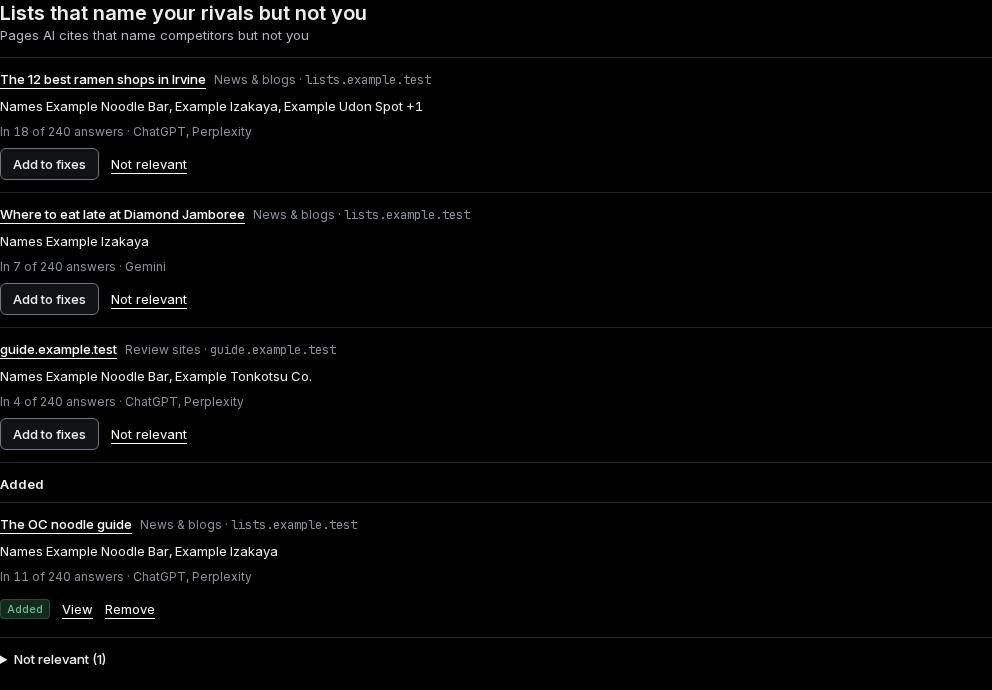
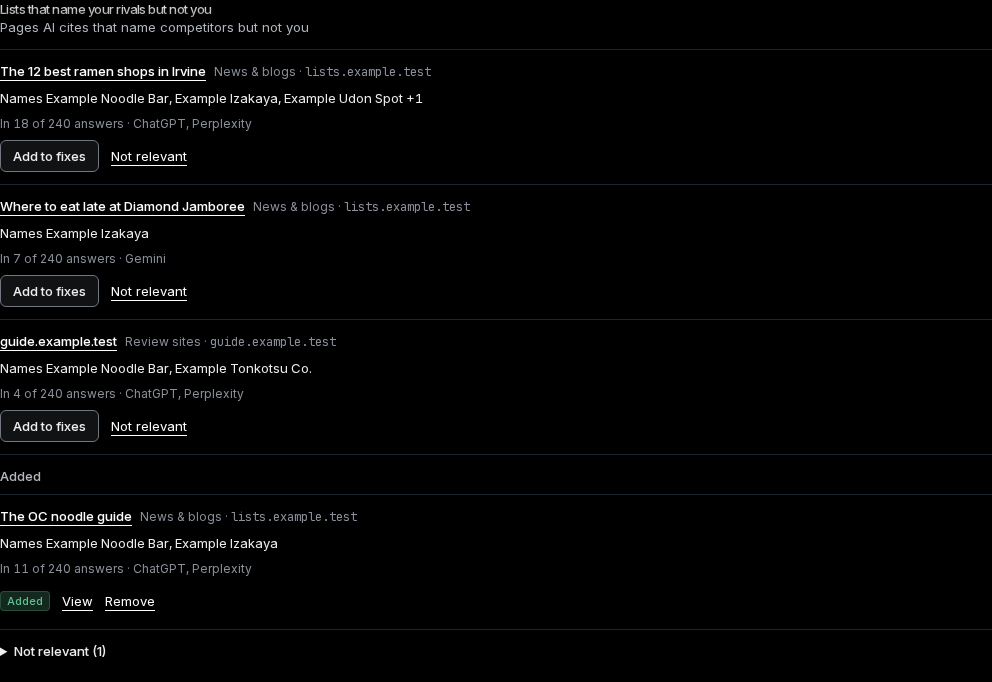
fix(mentions): http(s)-only links, new-tab note, the F1 section title (review S1)
A cited URL becomes a link only with an http: or https: protocol; anything
else is plain text with the domain. New-tab links carry a visually hidden
"(opens in a new tab)". The title uses the F1 section scale.

Changed region(s): [[0.0, 0.0, 0.4688, 0.4619], [0.0, 0.4927, 0.375, 0.9545]]

diff --git a/src/components/mentions/MentionsSection.tsx b/src/components/mentions/MentionsSection.tsx
@@ -14,10 +14,23 @@ const text = "text-ui text-link underline underline-offset-4";
 const action =
   "inline-flex min-h-11 items-center text-ui text-link underline underline-offset-4 md:min-h-8 focus-visible:outline-2 focus-visible:outline-offset-2 focus-visible:outline-jellyDeep";
 
+// #142 S1: a cited URL is a link only with an http: or https: protocol. Anything else (javascript:, data:,
+// a malformed URL) is plain text with the domain.
+export function safeHref(url: string): string | null {
+  try {
+    const { protocol } = new URL(url);
+    return protocol === "http:" || protocol === "https:" ? url : null;
+  } catch {
+    return null;
+  }
+}
+
 function PageLink({ t }: { t: MentionTarget }) {
+  const href = safeHref(t.url);
+  if (!href) return <span className="font-medium text-ui">{t.domain}</span>;
   return (
-    <a href={t.url} target="_blank" rel="noopener noreferrer" className={`font-medium ${text}`}>
-      {t.title ?? t.domain}
+    <a href={href} target="_blank" rel="noopener noreferrer" className={`font-medium ${text}`}>
+      {t.title ?? t.domain} <span className="sr-only">{c.newTab}</span>
     </a>
   );
 }
@@ -120,7 +133,7 @@ export function MentionsSection({
   return (
     <section aria-labelledby={heading} className="flex flex-col gap-3">
       <div>
-        <h2 id={heading} className="font-display text-h3 font-semibold">
+        <h2 id={heading} className="heading-gradient font-display text-section font-medium">
           {c.title}
         </h2>
         <p className="text-ui text-text2">{c.sub}</p>
@@ -138,7 +151,7 @@ export function MentionsSection({
           )}
           {added.length > 0 && (
             <section aria-label={c.added} className="flex flex-col gap-2">
-              <h3 className="text-ui font-semibold">{c.added}</h3>
+              <h3 className="text-ui font-medium text-text2">{c.added}</h3>
               <ul aria-label={c.added} className={list}>
                 {added.map(row)}
               </ul>

diff --git a/src/components/mentions/copy.ts b/src/components/mentions/copy.ts
@@ -21,4 +21,6 @@ export const mentionsCopy = {
   emptyNone: "None in your last run. We check again on every run.",
   failed: "We couldn't save that. Try again.",
   more: (n: number) => `+${n} more`,
+  // Visually hidden on every new-tab link (#142 review).
+  newTab: "(opens in a new tab)",
 };

diff --git a/docs/progress/2026-11-06-gas-mentions-ui.md b/docs/progress/2026-11-06-gas-mentions-ui.md
@@ -9,3 +9,4 @@
 - The server action (app/app/sources/actions.ts, public) validates the URL (http(s), ≤2000) and the status, decides for the current business, maps the service's refusals to error codes, never returns raw messages, and revalidates /app/fixes and /app/sources.
 - What to fix next: the grouped R17 fix's evidence (FixView.evidence, inside the open fix's collapsible body) lists the added pages, at most 3, then "+{n} more" to /app/sources.
 - Not done: the /team DFY pane (C-c).
+- Review (#142): S1, a cited URL is a link only when `new URL()` parses it with an http: or https: protocol (`safeHref`). javascript:, data:, a malformed URL or ftp: show as plain text with the domain, in the rows and the R17 evidence. Every new-tab link ends with a visually hidden "(opens in a new tab)". There's no external-link icon in the set, so there's no icon. The section title uses the F1 section scale (`heading-gradient font-display text-section font-medium`, like Page.Section), and "Added" is a quieter subheading.

diff --git a/docs/COPY.md b/docs/COPY.md
@@ -447,6 +447,7 @@ G7 "Lists that name your rivals but not you" (/app/sources, and the R17 fix's ev
 | Empty, a run with no lists | "None in your last run. We check again on every run." |
 | Save failed (inline on the row) | "We couldn't save that. Try again." |
 | R17 evidence, more than 3 | "+{n} more" |
+| New-tab links (visually hidden, #142 review) | "(opens in a new tab)" |
 
 ## Landing (lead, 2026-11-06)
 
